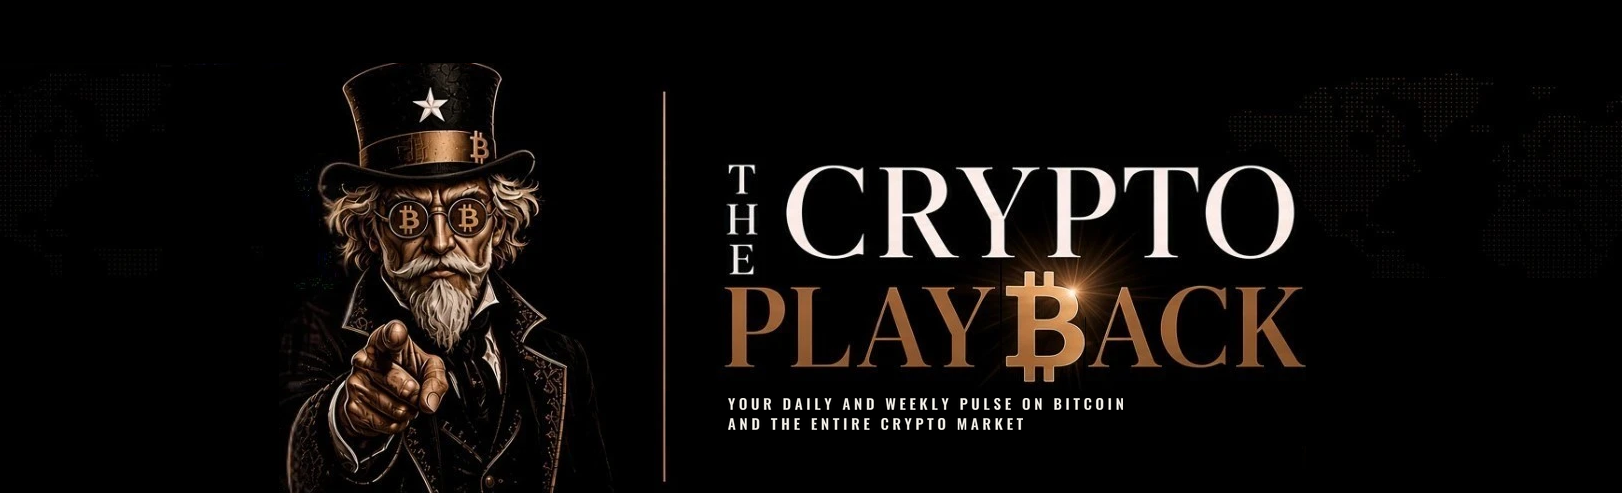
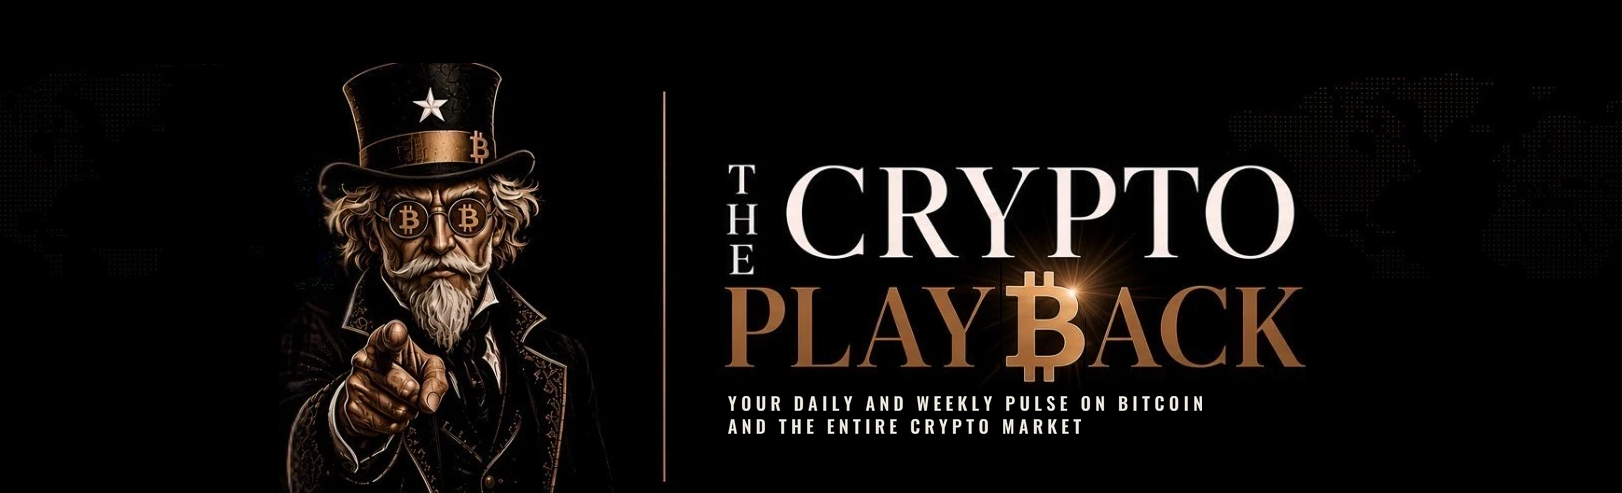
Bump tagline font size ~20%

Changed region(s): [[0.4316, 0.7911, 0.7398, 0.8824]]

diff --git a/posts/2026-09-21-daily.html b/posts/2026-09-21-daily.html
@@ -27,7 +27,7 @@
 </header>
 
 <article class="post">
-    <img class="post-masthead" src="../assets/header-web.png?v=045f3eaaef" alt="The Crypto Playback">
+    <img class="post-masthead" src="../assets/header-web.png?v=fc9648a367" alt="The Crypto Playback">
     <div class="ticker"><div class="wrap"><div class="coin"><span class="sym">BTC</span><span>$81,305.00</span><span>(+1.1%)</span></div><div class="coin"><span class="sym">ETH</span><span>$2,661.68</span><span>(+3.1%)</span></div><div class="coin"><span class="sym">BNB</span><span>$776.66</span><span>(+3.4%)</span></div><div class="coin"><span class="sym">XRP</span><span>$1.42</span><span>(+2.9%)</span></div><div class="coin"><span class="sym">SOL</span><span>$111.36</span><span>(+2.9%)</span></div>
     <span class="updated">Updated Sep 21, 2026 03:14 UTC</span></div></div>
     <div class="sentiment-bar">

diff --git a/posts/2026-09-20-daily.html b/posts/2026-09-20-daily.html
@@ -27,7 +27,7 @@
 </header>
 
 <article class="post">
-    <img class="post-masthead" src="../assets/header-web.png?v=045f3eaaef" alt="The Crypto Playback">
+    <img class="post-masthead" src="../assets/header-web.png?v=fc9648a367" alt="The Crypto Playback">
     <div class="ticker"><div class="wrap"><div class="coin"><span class="sym">BTC</span><span>$80,864.00</span><span>(-0.3%)</span></div><div class="coin"><span class="sym">ETH</span><span>$2,626.40</span><span>(-0.0%)</span></div><div class="coin"><span class="sym">BNB</span><span>$765.31</span><span>(+0.8%)</span></div><div class="coin"><span class="sym">XRP</span><span>$1.40</span><span>(-0.7%)</span></div><div class="coin"><span class="sym">SOL</span><span>$109.85</span><span>(-0.7%)</span></div>
     <span class="updated">Updated Sep 20, 2026 21:59 UTC</span></div></div>
     

diff --git a/posts/2026-09-20-weekly.html b/posts/2026-09-20-weekly.html
@@ -27,7 +27,7 @@
 </header>
 
 <article class="post">
-    <img class="post-masthead" src="../assets/header-web.png?v=045f3eaaef" alt="The Crypto Playback">
+    <img class="post-masthead" src="../assets/header-web.png?v=fc9648a367" alt="The Crypto Playback">
     <div class="ticker"><div class="wrap"><div class="coin"><span class="sym">BTC</span><span>$80,340.00</span><span>(-0.9%)</span></div><div class="coin"><span class="sym">ETH</span><span>$2,585.22</span><span>(-1.3%)</span></div><div class="coin"><span class="sym">BNB</span><span>$750.39</span><span>(-1.1%)</span></div><div class="coin"><span class="sym">XRP</span><span>$1.38</span><span>(-2.3%)</span></div><div class="coin"><span class="sym">SOL</span><span>$108.34</span><span>(-4.3%)</span></div>
     <span class="updated">Updated Sep 20, 2026 03:38 UTC</span></div></div>
     

diff --git a/index.html b/index.html
@@ -28,7 +28,7 @@
 
 <section class="hero">
     <div class="wrap">
-      <img class="hero-masthead" src="assets/header-web.png?v=045f3eaaef" alt="The Crypto Playback — your daily and weekly pulse on Bitcoin and the entire crypto market">
+      <img class="hero-masthead" src="assets/header-web.png?v=fc9648a367" alt="The Crypto Playback — your daily and weekly pulse on Bitcoin and the entire crypto market">
     </div>
   </section><section class="pulse-ticker-panel">
     <div class="pulse-wrap">

diff --git a/posts/2026-09-21-weekly.html b/posts/2026-09-21-weekly.html
@@ -27,7 +27,7 @@
 </header>
 
 <article class="post">
-    <img class="post-masthead" src="../assets/header-web.png?v=045f3eaaef" alt="The Crypto Playback">
+    <img class="post-masthead" src="../assets/header-web.png?v=fc9648a367" alt="The Crypto Playback">
     <div class="ticker-bar">
     <div class="ticker-top5-col">
       <div class="ticker-tab-wrap">
